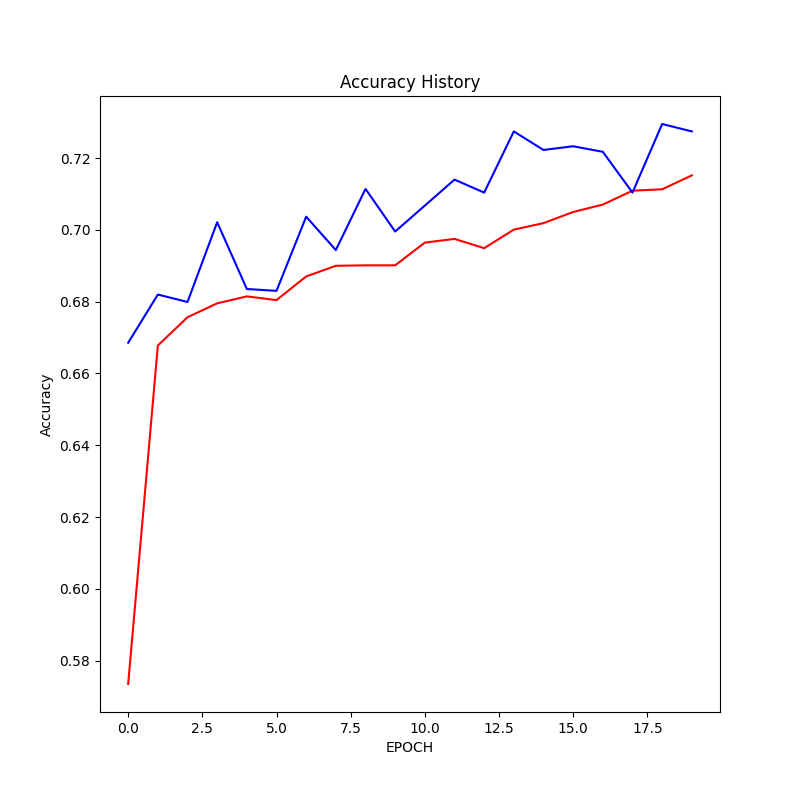
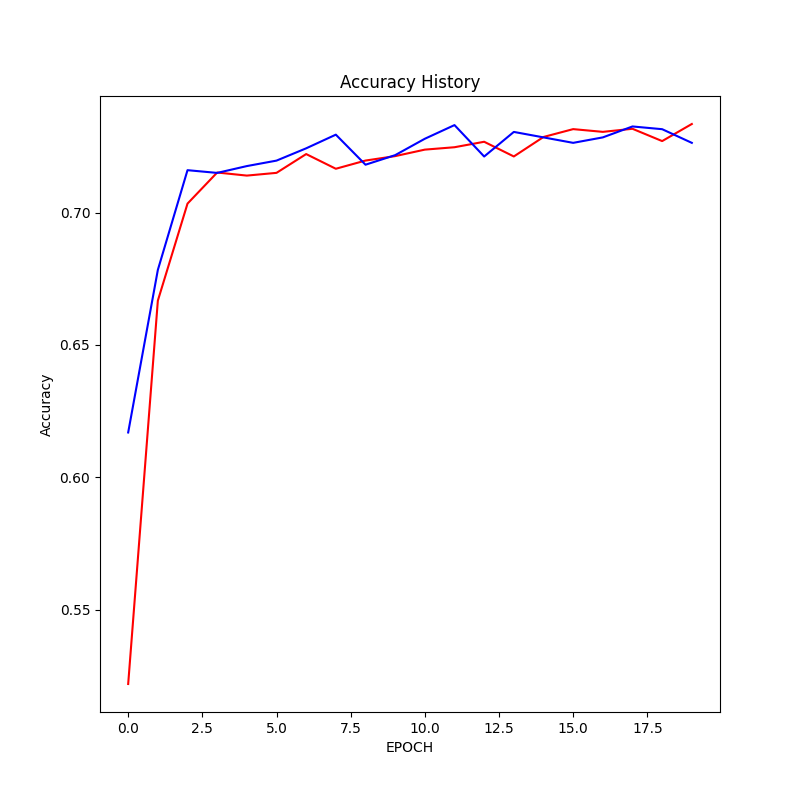
모델을 읽어 왔고 키, 몸무게, 성별을 넣으면 핫인코딩 방식으로 표현해서 답해주는 프로그램까지 작성

diff --git a/deeplearning/fusion/model_test.py b/deeplearning/fusion/model_test.py
@@ -1,0 +1,18 @@
+import tensorflow as tf
+import numpy as np
+
+# 모델을 읽어 오는 루틴
+model = tf.keras.models.load_model("model.keras")
+
+# 정규화 값으로 변환하는 루틴
+# 전역변수로 사용하는 방법을 적용해 볼 것
+
+height = 172.0 / 194.2
+weight = 60.5 / 130.7
+
+
+x=np.array([[height, weight, 1]])
+
+result = model.predict(x)
+print(result)
+

diff --git a/deeplearning/fusion/main.py b/deeplearning/fusion/main.py
@@ -27,9 +27,11 @@ history = model.fit(dr.train_X, dr.train_Y, epochs=EPOCHS,
                     validation_data=(dr.test_X, dr.test_Y),
                     callbacks=[early_stop])
 
-dtype(history)
 # 학습 결과를 그래프로 출력합니다.
 data_reader.draw_graph(history)
+
+# 모델 저장
+model.save("model.keras")
 
 # 테스트 케이스
 tp_test = (100, 100, 100)
